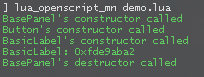
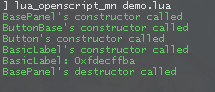
ReadMe: Fix logical error in example

Changed region(s): [[0.0, 0.0, 0.9412, 0.8571]]

diff --git a/README.md b/README.md
@@ -60,7 +60,7 @@ It serves as a tool that amplifies their functionality and streamlines the work 
 
 	end
 
-	local Button = robustclass( 'Button : BasePanel' )
+	local Button = robustclass( 'Button : ButtonBase' )
 	do
 
 		function Button:Button() print( 'Button\'s constructor called' ) end
